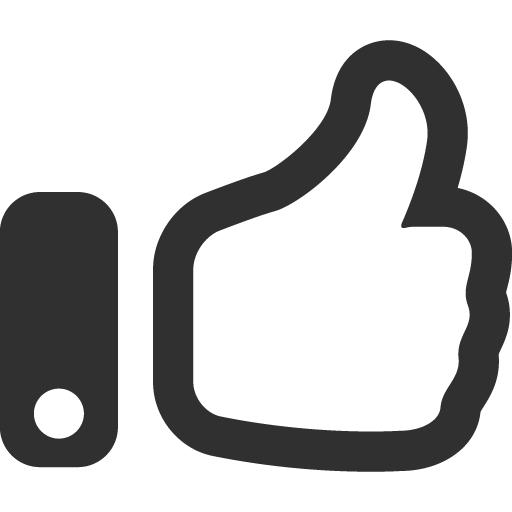
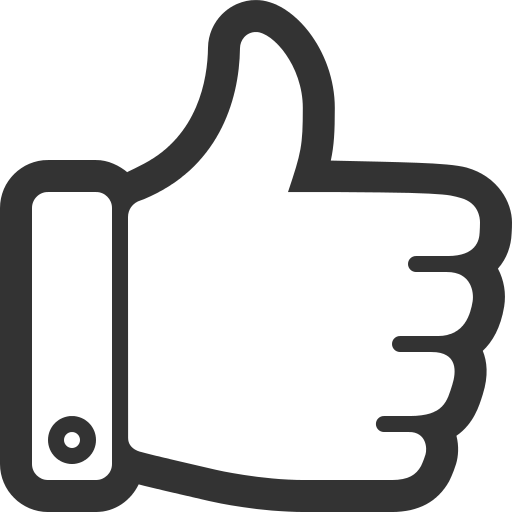
Css likes and comments, sorting new and popular responses

diff --git a/public/styles/core.css b/public/styles/core.css
@@ -11,12 +11,41 @@ input:focus, a:focus, .btn:focus {
 .row {
   margin: 0px; }
 
+.modal {
+  height: 100%;
+  margin-top: -40px;
+  background-color: rgba(33, 33, 33, 0.8); }
+
+.popup-wrapper {
+  height: 400px;
+  max-width: 100%;
+  margin: 0 auto;
+  width: 300px;
+  margin-top: 10%;
+  background-color: #DCDCDC;
+  border: 4px solid #212121;
+  color: #212121;
+  padding: 8px;
+  text-align: center; }
+  .popup-wrapper button {
+    width: 100%;
+    display: inline-block;
+    color: #212121;
+    margin: 10px auto;
+    height: 60px;
+    line-height: 60px;
+    font-size: 20px; }
+
 #go-to {
   position: absolute;
-  bottom: 10px;
+  bottom: 30px;
+  left: 0px;
+  padding-left: 10px;
+  padding-top: 8px;
   height: 40px;
   margin-top: 60px;
-  width: 100%; }
+  width: 100%;
+  background-color: #6C91A3; }
 
 .body {
   background-color: #6C91A3;
@@ -229,8 +258,8 @@ input[type=text] {
   padding: 20px; }
 
 .item {
-  height: 200px;
-  width: 150px;
+  height: 150px;
+  width: 100px;
   padding: 0px;
   color: #212121;
   text-align: center;
@@ -239,24 +268,29 @@ input[type=text] {
   font-size: 24px; }
   .item .tag {
     display: block;
-    font-size: 16px;
+    font-size: 12px;
+    padding-top: 4px;
     height: 40px;
     border-top: 4px solid #212121; }
   .item.text {
     height: 150px;
     border: 2px solid #212121;
     background-color: #DCDCDC; }
+    .item.text p {
+      padding: 4px;
+      font-size: 18px; }
   .item .response {
-    height: 150px;
-    width: 150px;
+    height: 100px;
+    width: 100px;
     display: table; }
   .item.icon {
-    height: 200px;
-    width: 150px;
+    height: 150px;
+    width: 100px;
     background-color: #DCDCDC; }
     .item.icon img {
-      height: 150px;
-      width: 150px; }
+      height: 90px;
+      width: 90px;
+      margin: 0 auto; }
   .item p {
     display: table-cell;
     vertical-align: middle; }
@@ -272,6 +306,54 @@ input[type=text] {
 
 #response-group {
   margin-top: 80px; }
+
+.response-grid {
+  width: 100%;
+  position: fixed;
+  overflow: hidden; }
+
+#new-responses {
+  bottom: 40px; }
+
+#popular-responses {
+  height: 60%; }
+
+@media (max-height: 1000px) and (min-height: 780px) {
+  .grid-lg-3 {
+    max-height: 540px; }
+  .grid-lg-1 {
+    max-height: 240px; } }
+
+@media (max-height: 780px) and (min-height: 480px) {
+  .grid-md-2 {
+    max-height: 340px; }
+  .grid-md-1 {
+    max-height: 240px; } }
+
+.bubble {
+  position: absolute;
+  width: 30px;
+  height: 30px;
+  font-size: 10px;
+  line-height: 30px;
+  border-radius: 15px;
+  border: 1px solid #606060;
+  background-size: 25px 25px;
+  background-position: center;
+  background-repeat: no-repeat; }
+
+.comment-bubble {
+  top: -5px;
+  left: -5px;
+  background-color: #A3CCE0;
+  background-image: url("/images/comment.png"); }
+
+.like-bubble {
+  top: -5px;
+  right: -5px;
+  background-color: #AAD9C4;
+  background-image: url("/images/like.png");
+  background-position-y: top; }
 
 #prompt-input {
   color: #212121;
@@ -374,13 +456,16 @@ select option {
   margin-top: -10px;
   background-color: #FCFCFC;
   border-radius: 0px;
-  border: 2px solid #212121; }
+  border: 2px solid #212121;
+  padding: 0px; }
   .dropdown-menu * {
     white-space: pre-wrap; }
   .dropdown-menu ul {
     margin-top: -10px; }
-  .dropdown-menu li a {
-    white-space: pre-wrap; }
+  .dropdown-menu li {
+    border-bottom: 1px solid #212121; }
+    .dropdown-menu li a {
+      white-space: pre-wrap; }
 
 .plan-options {
   width: 350px;

diff --git a/public/styles/core.scss b/public/styles/core.scss
@@ -337,6 +337,7 @@ input[type=text] {
 	margin: 10px;
 	font-size:24px;
 
+
 	.tag {
     	display: block;
     	font-size: 12px;
@@ -370,6 +371,8 @@ input[type=text] {
 		img {
 			height: 90px;
 			width: 90px;
+		    margin: 0 auto;
+
 		}
 	}
 
@@ -394,6 +397,69 @@ input[type=text] {
 #response-group {
 	margin-top: 80px;
 }
+
+.response-grid {
+	width: 100%;
+	position: fixed;
+	overflow:hidden;
+}
+
+#new-responses {
+	bottom: 40px;
+}
+
+#popular-responses {
+	height: 60%;
+}
+
+@media(max-height: 1000px) and (min-height: 780px)  {
+	.grid-lg-3 {
+		max-height: 540px;
+	}
+	.grid-lg-1 {
+		max-height: 240px;
+	}
+}
+
+@media(max-height: 780px) and (min-height: 480px) {
+	.grid-md-2 {
+		max-height: 340px;
+	}
+	.grid-md-1 {
+		max-height: 240px;
+	}
+}
+
+.bubble {
+	position: absolute;
+    width: 30px;
+    height: 30px;
+    font-size: 10px;
+    line-height: 30px;
+    border-radius: 15px;
+    border: 1px solid $color-grey;
+    background-size: 25px 25px;
+    background-position: center;
+    background-repeat: no-repeat;
+}
+
+.comment-bubble {
+	top: -5px;
+    left: -5px;
+    background-color: $color-blue-lite;
+    background-image: url('/images/comment.png');
+
+}
+
+.like-bubble {
+	top: -5px;
+    right: -5px;
+    background-color: $color-green-lite;
+    background-image: url('/images/like.png');
+	background-position-y: top;
+
+}
+
 
 #prompt-input {
 	color: $color-black;

diff --git a/routes/views/present.js b/routes/views/present.js
@@ -51,7 +51,30 @@ exports = module.exports = function(req, res) {
         queryPrompt.exec(function(err, resultPrompt) {
             if (err) throw err;
 
-            locals.responses = resultPrompt.responses.sort('-created');
+            var popular = _.map(resultPrompt.responses, function(response) {
+                if (response.commentCnt === undefined)
+                    response.commentCnt = 0;
+                if (response.likes === undefined)
+                    response.likes = 0;
+                response.popularity = response.commentCnt + response.likes;
+                return response;
+            });
+
+            popular.sort( function (a, b) {
+                return parseFloat(b.popularity) - parseFloat(a.popularity);
+            })
+
+            var recent = _.map(resultPrompt.responses, function(response) {
+                response.created = new Date(response.created);
+                return response;
+            });
+
+            recent.sort( function (a, b) {
+                return new Date(b.created) - new Date(a.created);
+            });
+
+            locals.popular = popular;
+            locals.recent = recent;
 
             locals.prompt = resultPrompt;
 

diff --git a/routes/api/plan.js b/routes/api/plan.js
@@ -174,10 +174,31 @@ exports.reload = function(req, res) {
             return;
         }
 
-        console.log(session);
+        var popular = _.map(session.responses, function(response) {
+            if (response.commentCnt === undefined)
+                response.commentCnt = 0;
+            if (response.likes === undefined)
+                response.likes = 0;
+            response.popularity = parseFloat(response.commentCnt) + parseFloat(response.likes);
+            return response;
+        });
+
+        popular = popular.sort( function (a, b) {
+            return parseFloat(b.popularity) - parseFloat(a.popularity);
+        });
+
+        var recent = _.map(session.responses, function(response) {
+            response.created = new Date(response.created);
+            return response;
+        });
+
+        recent = recent.sort( function (a, b) {
+            return new Date(b.created) - new Date(a.created);
+        });
 
         let data = {
-            responses: session.responses
+            popular: popular, 
+            recent: recent
         }
 
         Templates.Load('partials/responseGroup', data, function(html) {

diff --git a/models/Response.js b/models/Response.js
@@ -63,6 +63,6 @@ Response.add({
 /**
  * Model Registration
  */
-Response.defaultSort = '-createdAt';
+Response.defaultSort = '-created';
 Response.defaultColumns = 'name, updatedAt';
 Response.register();

diff --git a/public/styles/core/variables.scss b/public/styles/core/variables.scss
@@ -27,4 +27,6 @@ $color-black: #212121;
 $color-blue: #6C91A3;
 $color-blue-dark: #4D7A91;
 $color-blue-lite: #A3CCE0;
+$color-green: #7CAA95;
+$color-green-lite: #AAD9C4;
 
